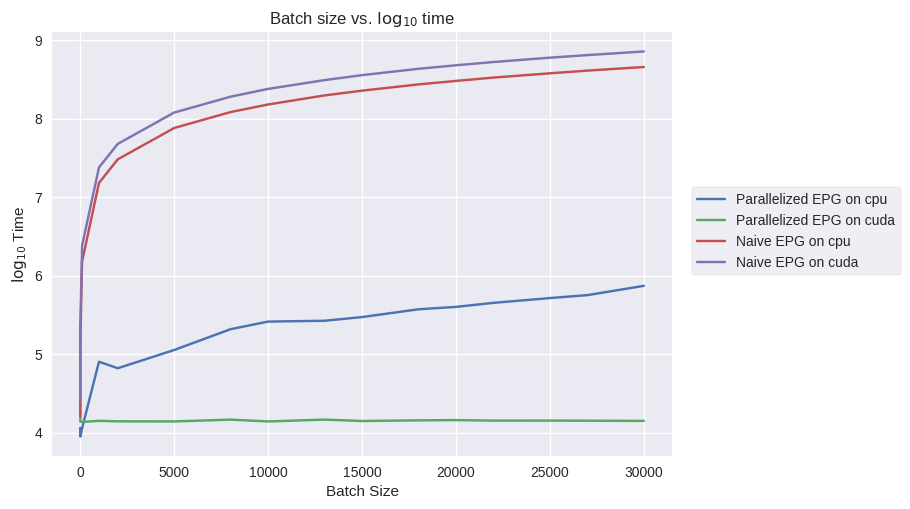
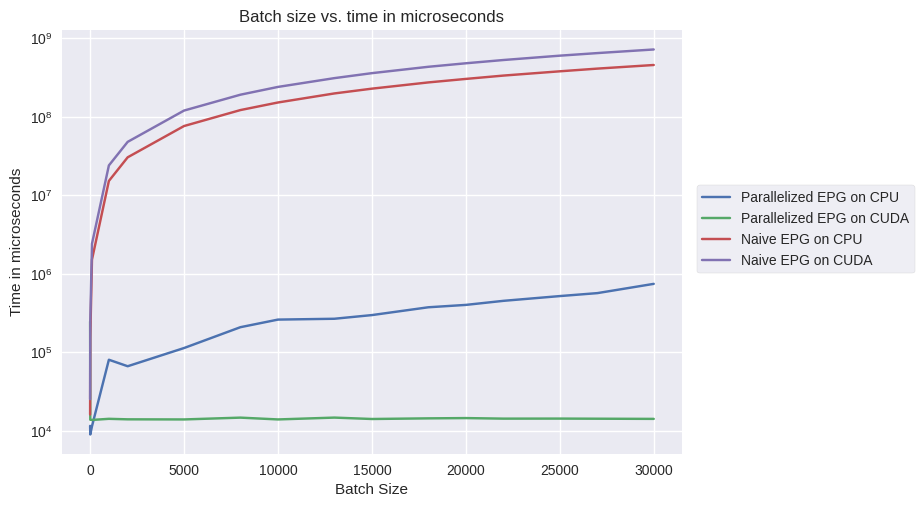
Convert plot to semilogy

diff --git a/plot.py b/plot.py
@@ -20,13 +20,13 @@ for simulator in ["Parallelized", "Naive"]:
         y = df[df['Simulator'].str.match(sims[simulator]) & df['Device'].str.match(device)]
         x = y.loc[:, 'Batch Size']
         y = y.loc[:, 'Time']
-        plt.plot(x, np.log10(y), label=f'{simulator} EPG on {device}')
+        plt.semilogy(x, y, label=f'{simulator} EPG on {device.upper()}')
         i += 1
 
 plt.legend(loc=9, bbox_to_anchor=(1.2, 0.65), frameon=True)
 plt.xlabel('Batch Size')
-plt.ylabel('$\log_{10}$ Time')
-plt.title('Batch size vs. $\log_{10}$ time')
+plt.ylabel('Time in microseconds')
+plt.title('Batch size vs. time in microseconds')
 plt.savefig('Time.png', bbox_inches='tight')
 
 plt.close('all')
@@ -41,10 +41,10 @@ for simulator in ["Parallelized", "Naive"]:
         y = df[df['Simulator'].str.match(sims[simulator]) & df['Device'].str.match(device)]
         x = y.loc[:, 'Batch Size']
         y = y.loc[:, 'Speed']
-        plt.plot(x, y, label=f'{simulator} EPG on {device}', linestyle=linestyles[i])
+        plt.plot(x, y, label=f'{simulator} EPG on {device.upper()}', linestyle=linestyles[i])
         i += 1
 plt.legend(loc=9, bbox_to_anchor=(1.2, 0.65), frameon=True)
 plt.xlabel('Batch Size')
-plt.ylabel('Speed in microseconds')
-plt.title('Batch size vs. Speed in microseconds')
+plt.ylabel('Samples processed per microsecond')
+plt.title('Batch size vs. Samples processed per microsecond')
 plt.savefig('Speed.png', bbox_inches='tight')
